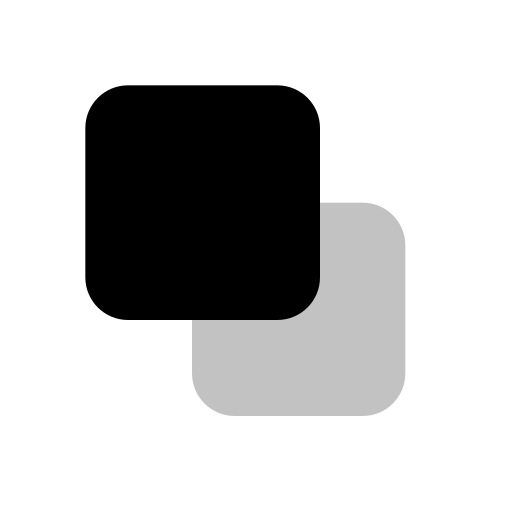
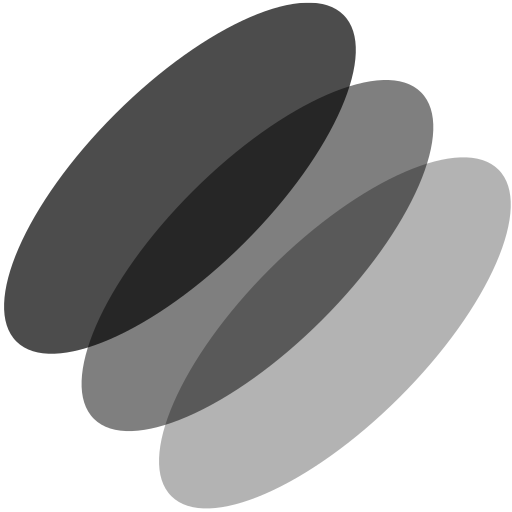
Update brand variables and identity

diff --git a/src/lib/components/Logo.svelte b/src/lib/components/Logo.svelte
@@ -3,7 +3,9 @@
 	const props: HTMLAttributes<SVGSVGElement> = $props();
 </script>
 
-<svg viewBox="0 0 24 24" fill="none" xmlns="http://www.w3.org/2000/svg" class="" {...props}>
-	<rect x="4" y="4" width="11" height="11" rx="2" fill="currentColor" />
-	<rect x="9" y="9.5" width="10" height="10" rx="2" fill="currentColor" fill-opacity="0.24" />
+<svg viewBox="0 0 97 96" fill="none" xmlns="http://www.w3.org/2000/svg" class="" {...props}>
+<path opacity="0.7" d="M65.0783 2.33158C71.8335 9.07503 63.4367 28.3905 46.3235 45.4739C29.2105 62.5574 9.86132 70.9395 3.10614 64.1962C-3.64905 57.4526 4.74774 38.1372 21.8609 21.0537C38.9739 3.9703 58.323 -4.41188 65.0783 2.33158Z" fill="currentColor"/>
+<path opacity="0.5" d="M79.7599 16.9832C86.5152 23.7267 78.1183 43.0422 61.0051 60.1256C43.8919 77.2091 24.543 85.5912 17.7878 78.8479C11.0326 72.1043 19.4294 52.7889 36.5424 35.7054C53.6556 18.6219 73.0047 10.2398 79.7599 16.9832Z" fill="currentColor"/>
+<path opacity="0.3" d="M94.4357 31.6366C101.191 38.3801 92.7941 57.6956 75.6811 74.7791C58.5679 91.8625 39.2189 100.245 32.4636 93.5013C25.7083 86.7577 34.1052 67.4423 51.2184 50.3588C68.3314 33.2753 87.6806 24.8933 94.4357 31.6366Z" fill="currentColor"/>
 </svg>
+
